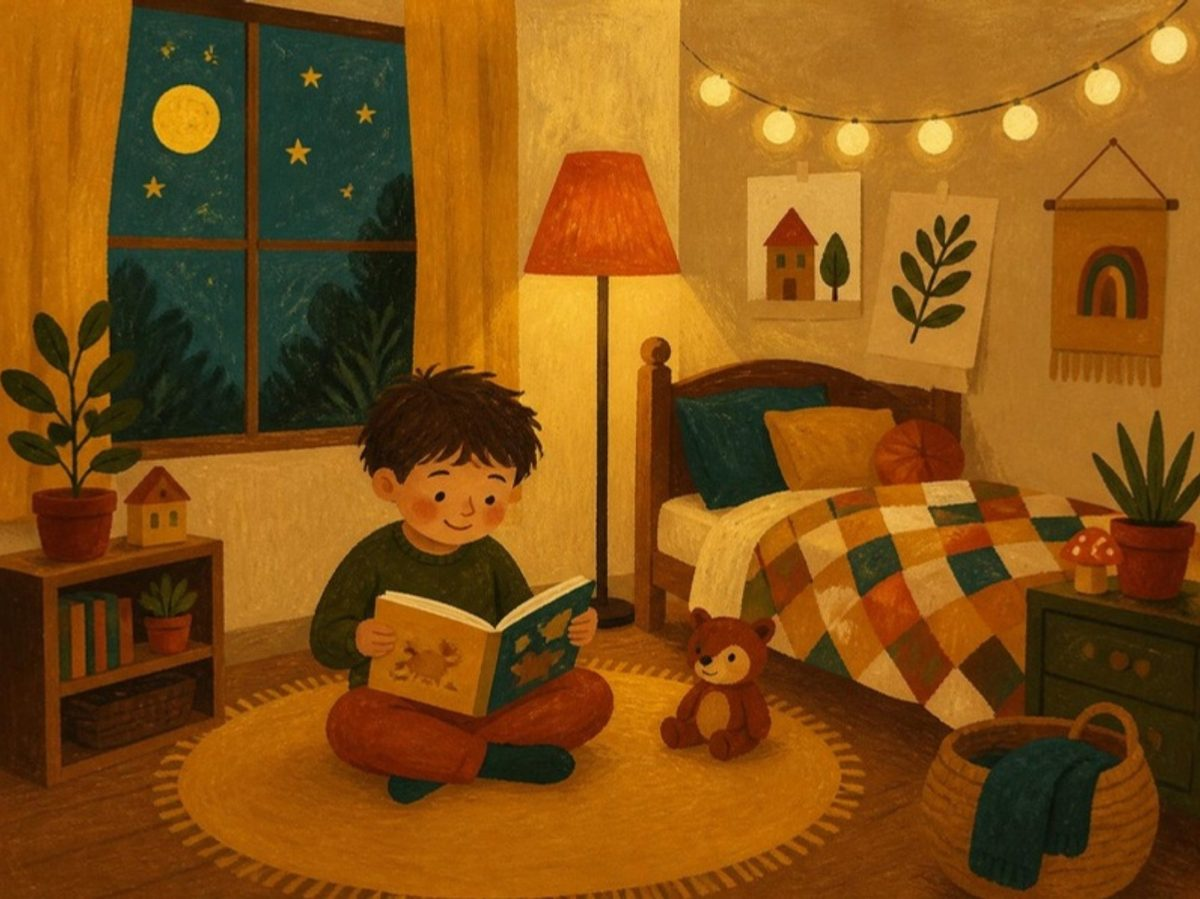
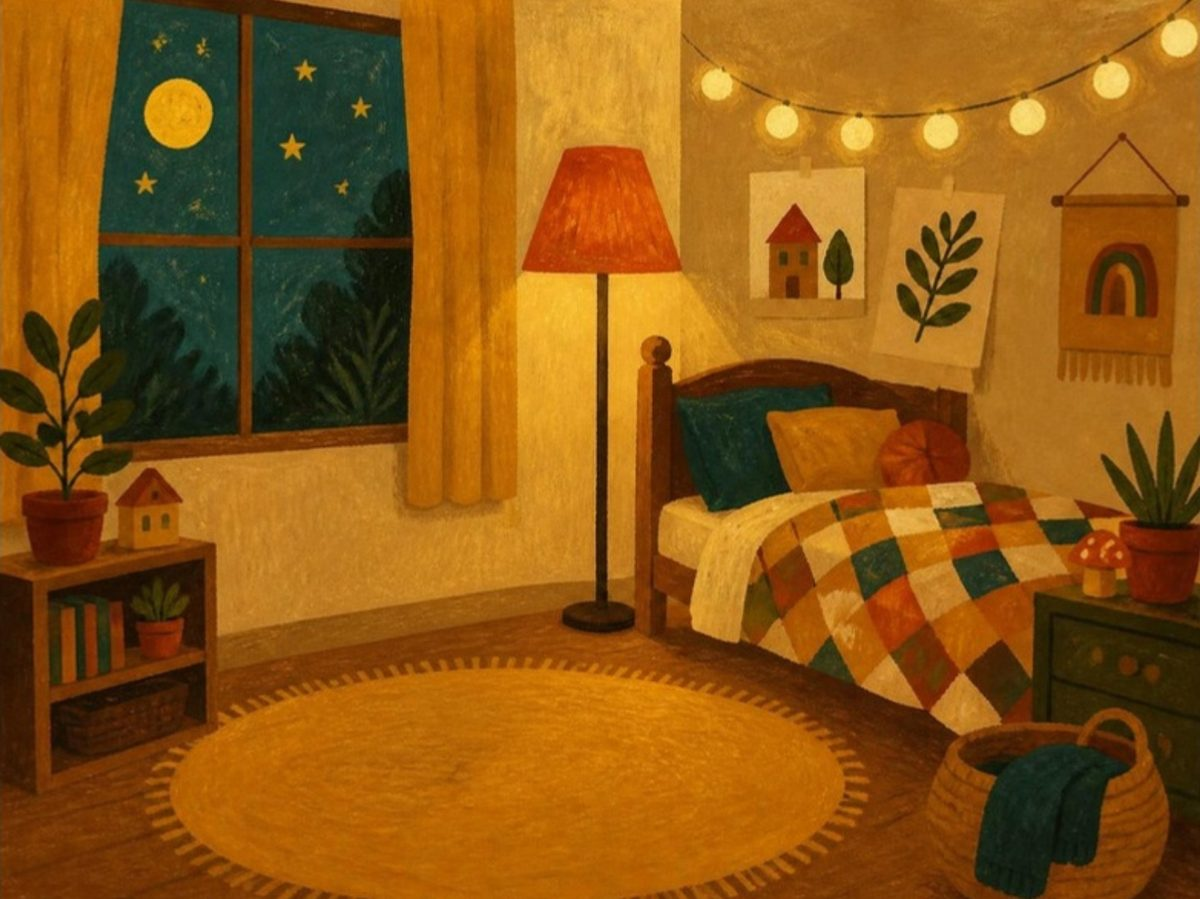
Replace scene illustrations with people-free versions and precache them
The scenes had children drawn in them, which clashed with the cartoon hero
standing on the scene. Also precache all scenes for offline use and ask
bedtime stories to keep their length.

Claude-Session: https://claude.ai/code/session_01544yTvZXdSpHZdficWb6qK

diff --git a/apps/client/public/sw.js b/apps/client/public/sw.js
@@ -1,9 +1,21 @@
 // 網頁版離線支援：快取 App 外殼與故事庫，離線時仍可開啟並閱讀本地書櫃與故事庫。
 // 打包成 App（Capacitor）時檔案已在裝置上，不依賴這支。
-const CACHE = "aistory-v1";
+const CACHE = "aistory-v2";
 
 self.addEventListener("install", (e) => {
-  e.waitUntil(caches.open(CACHE).then((c) => c.addAll(["/", "/manifest.webmanifest", "/library/stories.json"])));
+  e.waitUntil(
+    caches.open(CACHE).then((c) =>
+      c.addAll([
+        "/",
+        "/manifest.webmanifest",
+        "/library/stories.json",
+        // 場景插畫也預存，沒看過的場景離線時才不會破圖
+        ...["home", "park", "school", "zoo", "forest", "sea", "mountain", "city", "snow", "night_sky"].map(
+          (s) => `/scenes/${s}.jpg`,
+        ),
+      ]),
+    ),
+  );
   self.skipWaiting();
 });
 

diff --git a/packages/shared/src/index.ts b/packages/shared/src/index.ts
@@ -80,7 +80,7 @@ export const STYLE_RULES: Record<StoryStyle, { label: string; hint: string; prom
     label: "晚安",
     hint: "安靜好入睡",
     prompt:
-      "A calm bedtime story: slow pace, soothing repetition, low excitement, the world gradually getting quiet and sleepy.",
+      "A calm bedtime story: slow pace, soothing repetition, low excitement, the world gradually getting quiet and sleepy. A slow pace means more gentle sensory detail (sounds, warmth, soft light), not fewer words: still reach the requested length.",
   },
 };
 
